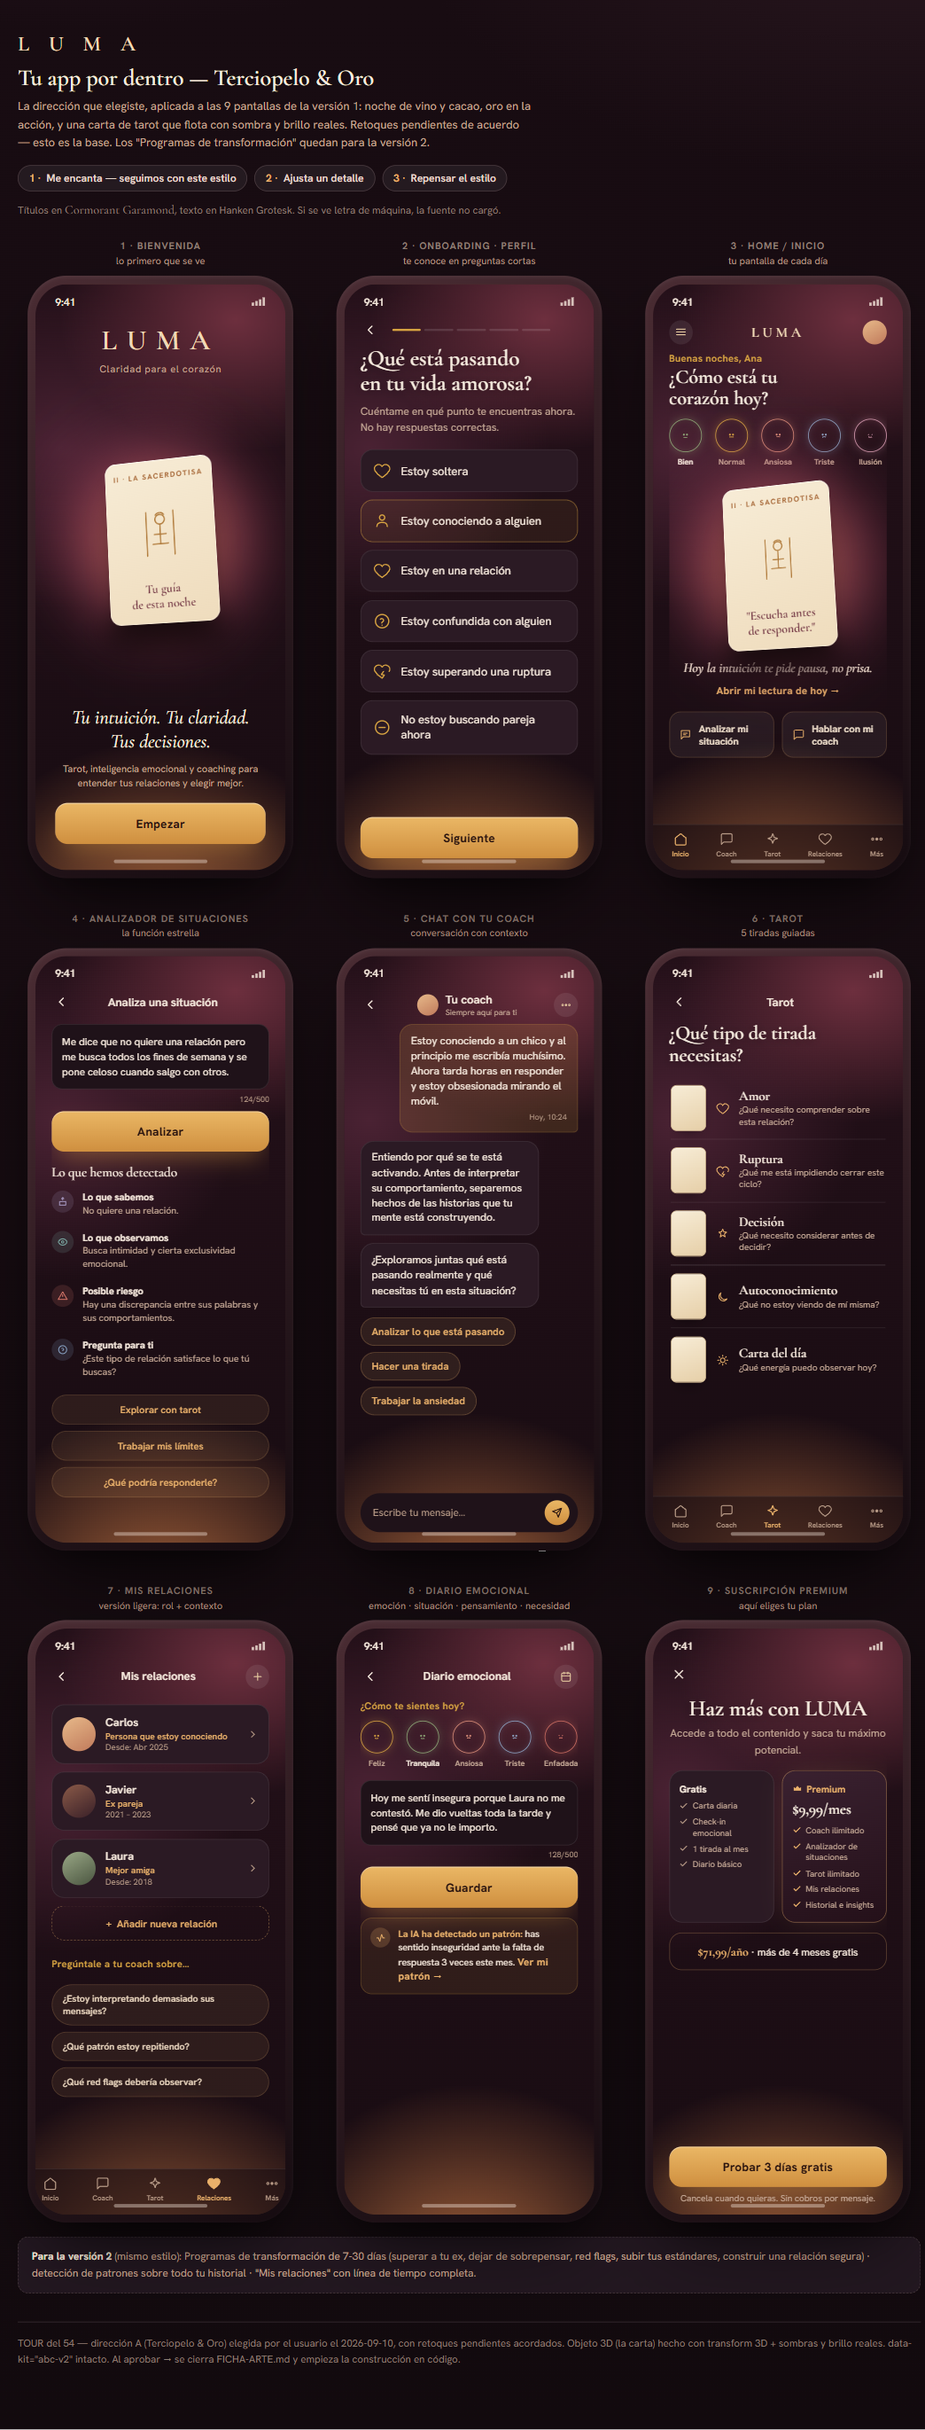
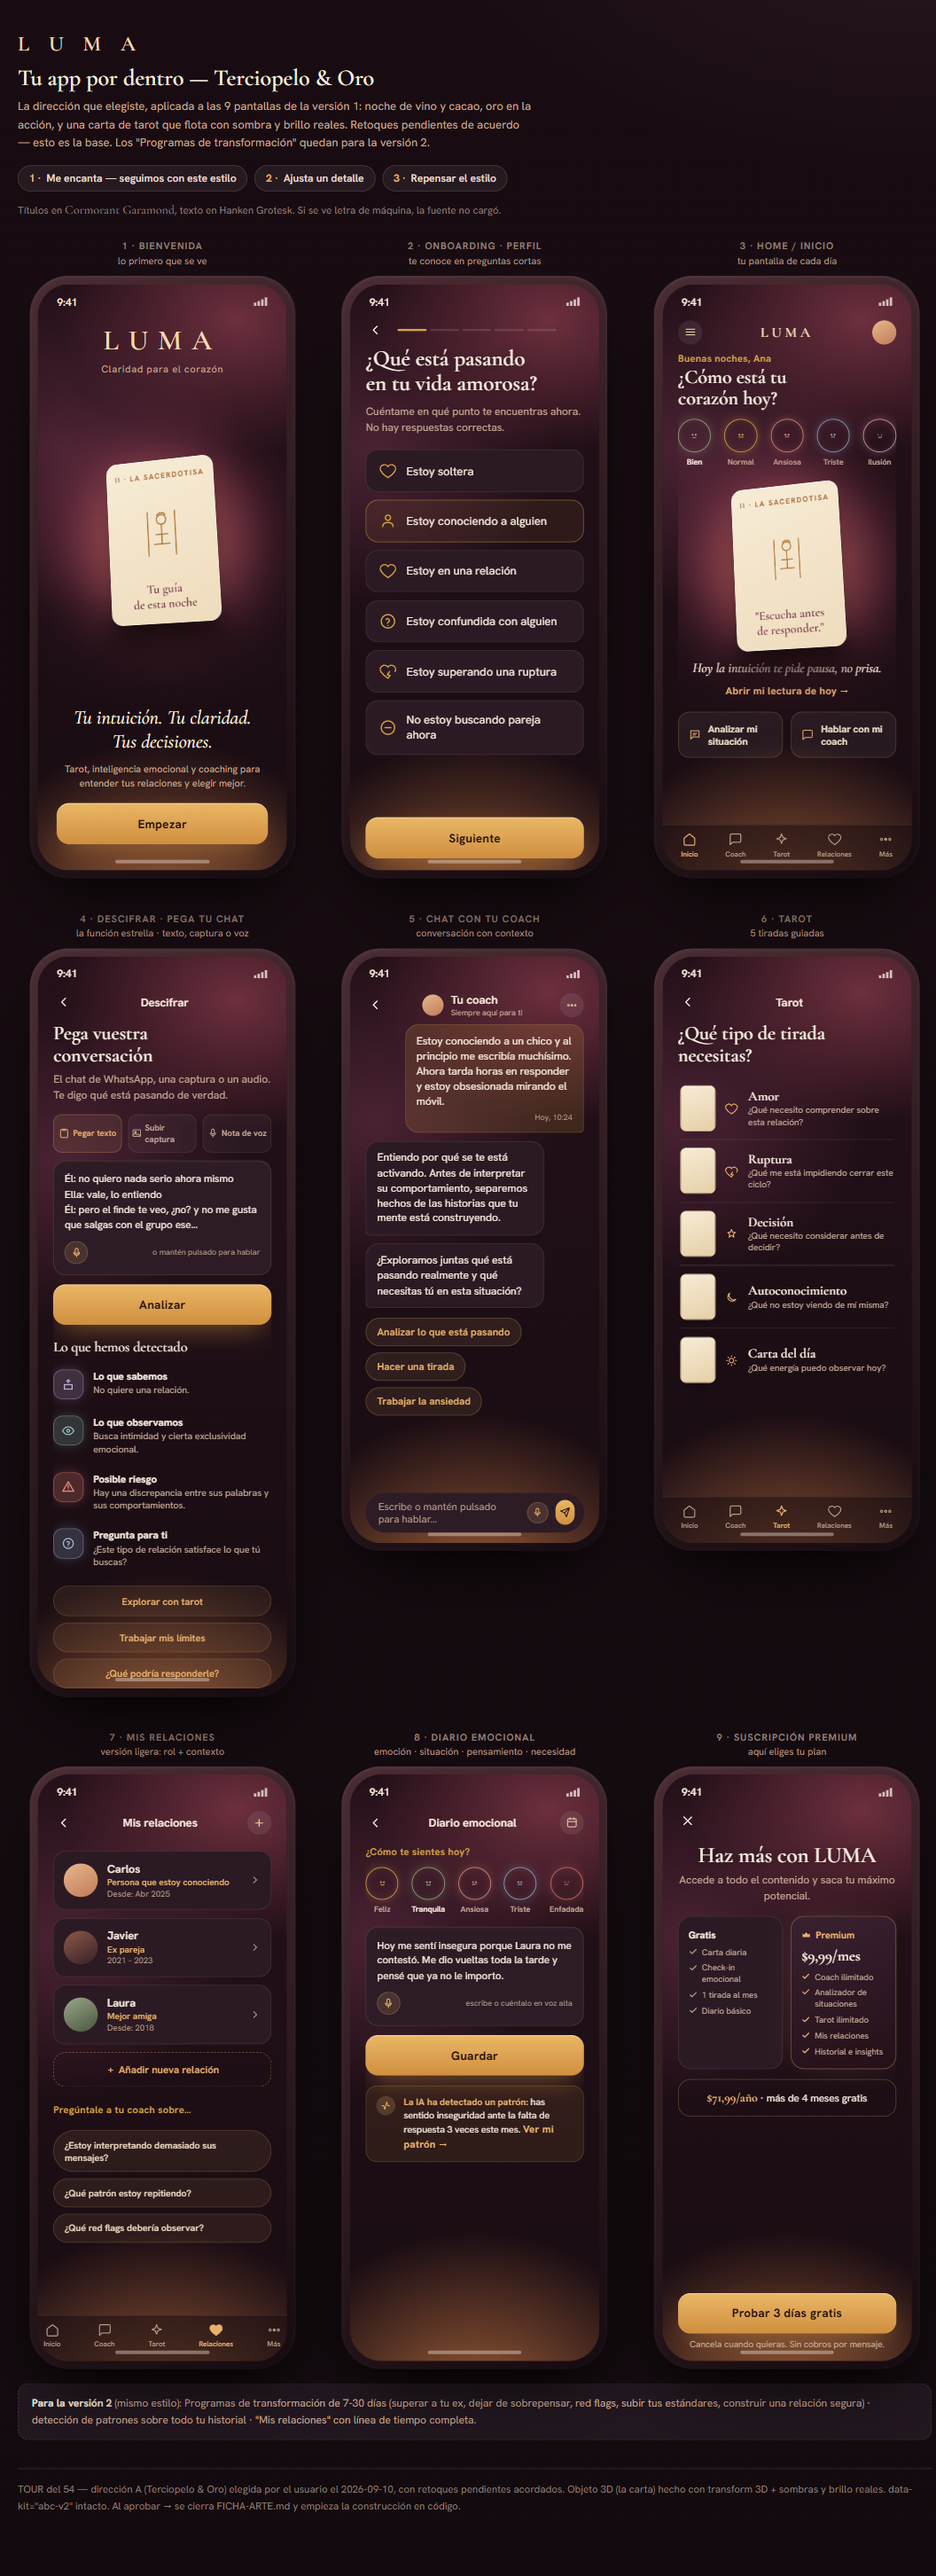
feat(sesion-2): retoques del tour — Descifrar, notas de voz, iconos y cajas de texto
Pedidos del usuario sobre la direccion A:
- pantalla 4 renombrada: 'Analizador de situaciones' -> 'Descifrar' / 'Pega vuestra
  conversacion'; 3 modos de entrada (pegar texto de WhatsApp / subir captura / nota de voz)
- NOTAS DE VOZ: boton de microfono en toda caja de texto (Descifrar, coach, diario).
  Decision de producto documentada en ESTADO.md (voz->texto en servidor, coste ~0.006/min).
- iconos de 'Lo que hemos detectado' mas grandes (34px) con relleno de color + glow por tipo
- cajas de texto con fondo calido translucido (#2d1c26) en vez de casi-negro que resaltaba de mas

diff --git a/vista-previa-app.html b/vista-previa-app.html
@@ -19,7 +19,7 @@
     --fb:"Hanken Grotesk", system-ui, sans-serif;
     --gold:#d8a441; --gold-lite:#e9b06a; --rose:#d98a86;
     --t1:#f4e7db; --t2:#c6a996; --t3:#b79a86;
-    --surf:#2b1a24; --surf-2:#33202b; --sunk:#1f1219; --hair:rgb(255 255 255/.09);
+    --surf:#2b1a24; --surf-2:#33202b; --sunk:#2d1c26; --hair:rgb(255 255 255/.09);
   }
   body{
     background:
@@ -148,12 +148,21 @@
   .askchips span{padding:9px 12px;border-radius:999px;background:rgb(233 176 106/.09);color:#e7d3bc;font-size:10.5px;font-weight:600;border:1px solid rgb(233 176 106/.2)}
 
   /* analizador */
-  .field{background:var(--sunk);border:1px solid var(--hair);border-radius:12px;padding:11px;font-size:11.5px;color:var(--t1);line-height:1.45}
-  .cnt{text-align:right;font-size:9px;color:var(--t3);margin-top:5px}
-  .det{display:flex;gap:10px;align-items:flex-start;padding:8px 0}
-  .det .dot{width:25px;height:25px;border-radius:999px;flex-shrink:0;display:flex;align-items:center;justify-content:center}
-  .det h5{font-size:11px;font-weight:700;color:var(--t1)}
-  .det p{font-size:10.5px;color:var(--t2);line-height:1.4;margin-top:1px}
+  .inmodes{display:flex;gap:7px;margin-top:12px}
+  .im{flex:1;display:flex;align-items:center;justify-content:center;gap:4px;padding:8px 3px;border-radius:10px;
+    font-size:9.5px;font-weight:600;color:var(--t2);background:rgb(255 255 255/.04);border:1px solid var(--hair)}
+  .im svg{width:12px;height:12px}
+  .im.on{color:var(--gold-lite);background:rgb(233 176 106/.1);border-color:rgb(233 176 106/.32)}
+  .field{background:#2d1c26;border:1px solid rgb(233 176 106/.16);border-radius:14px;padding:12px;
+    font-size:11.5px;color:var(--t1);line-height:1.5;box-shadow:inset 0 1px 0 rgb(255 255 255/.05)}
+  .field .ff{display:flex;align-items:center;justify-content:space-between;margin-top:9px}
+  .mic{width:26px;height:26px;border-radius:999px;flex-shrink:0;display:flex;align-items:center;justify-content:center;
+    background:rgb(233 176 106/.15);color:var(--gold-lite);border:1px solid rgb(233 176 106/.28)}
+  .cnt{font-size:9px;color:var(--t3)}
+  .det{display:flex;gap:11px;align-items:flex-start;padding:9px 0}
+  .det .dot{width:34px;height:34px;border-radius:11px;flex-shrink:0;display:flex;align-items:center;justify-content:center}
+  .det h5{font-size:11.5px;font-weight:700;color:var(--t1)}
+  .det p{font-size:10.5px;color:var(--t2);line-height:1.4;margin-top:2px}
   .acts{display:flex;flex-direction:column;gap:7px}
   .acts span{padding:9px 12px;border-radius:999px;background:rgb(233 176 106/.09);color:var(--gold-lite);font-size:11px;font-weight:600;text-align:center;border:1px solid rgb(233 176 106/.2)}
 
@@ -307,20 +316,28 @@
 
   <!-- 4 · ANALIZADOR -->
   <div class="fw">
-    <div class="rot">4 · Analizador de situaciones<small>la función estrella</small></div>
+    <div class="rot">4 · Descifrar · pega tu chat<small>la función estrella · texto, captura o voz</small></div>
     <div class="ph"><div class="scr">
       <div class="sb"><span>9:41</span><span class="r"><svg width="16" height="10" viewBox="0 0 17 11" fill="currentColor"><rect x="0" y="7" width="3" height="4" rx=".8"/><rect x="4.5" y="5" width="3" height="6" rx=".8"/><rect x="9" y="3" width="3" height="8" rx=".8"/><rect x="13.5" y=".5" width="3" height="10.5" rx=".8"/></svg></span></div>
       <div class="pn">
-        <div class="bar"><span class="bk"><svg width="17" height="17" viewBox="0 0 24 24" fill="none" stroke="currentColor" stroke-width="2" stroke-linecap="round" stroke-linejoin="round"><path d="M15 18l-6-6 6-6"/></svg></span><span class="ttl">Analiza una situación</span><span style="width:17px"></span></div>
-        <div class="sc" style="margin-top:6px">
-          <div class="field">Me dice que no quiere una relación pero me busca todos los fines de semana y se pone celoso cuando salgo con otros.</div>
-          <p class="cnt">124/500</p>
-          <div class="btn" style="margin-top:8px">Analizar</div>
-          <p style="font-family:var(--fd);font-size:15px;color:#f4e7db;margin:14px 0 4px">Lo que hemos detectado</p>
-          <div class="det"><span class="dot" style="background:rgb(169 155 196/.16)"><svg width="12" height="12" viewBox="0 0 24 24" fill="none" stroke="#a99bc4" stroke-width="2" stroke-linecap="round"><path d="M12 3v6M12 3 9 6M12 3l3 3M5 12h14v8H5z"/></svg></span><div><h5>Lo que sabemos</h5><p>No quiere una relación.</p></div></div>
-          <div class="det"><span class="dot" style="background:rgb(127 176 170/.16)"><svg width="12" height="12" viewBox="0 0 24 24" fill="none" stroke="#7fb0aa" stroke-width="2" stroke-linecap="round" stroke-linejoin="round"><path d="M2 12s3.5-7 10-7 10 7 10 7-3.5 7-10 7-10-7-10-7Z"/><circle cx="12" cy="12" r="2.5"/></svg></span><div><h5>Lo que observamos</h5><p>Busca intimidad y cierta exclusividad emocional.</p></div></div>
-          <div class="det"><span class="dot" style="background:rgb(217 119 106/.16)"><svg width="12" height="12" viewBox="0 0 24 24" fill="none" stroke="#d9776a" stroke-width="2" stroke-linecap="round" stroke-linejoin="round"><path d="M12 3 2 20h20L12 3ZM12 9v5M12 17h.01"/></svg></span><div><h5>Posible riesgo</h5><p>Hay una discrepancia entre sus palabras y sus comportamientos.</p></div></div>
-          <div class="det"><span class="dot" style="background:rgb(138 164 198/.16)"><svg width="12" height="12" viewBox="0 0 24 24" fill="none" stroke="#8aa4c6" stroke-width="2" stroke-linecap="round"><circle cx="12" cy="12" r="9"/><path d="M9.5 9.5a2.5 2.5 0 0 1 4.5 1.5c0 2-2.5 2-2.5 3.5M12 17.5h.01"/></svg></span><div><h5>Pregunta para ti</h5><p>¿Este tipo de relación satisface lo que tú buscas?</p></div></div>
+        <div class="bar"><span class="bk"><svg width="17" height="17" viewBox="0 0 24 24" fill="none" stroke="currentColor" stroke-width="2" stroke-linecap="round" stroke-linejoin="round"><path d="M15 18l-6-6 6-6"/></svg></span><span class="ttl">Descifrar</span><span style="width:17px"></span></div>
+        <div class="sc">
+          <h2 class="t sm" style="margin-top:4px">Pega vuestra<br>conversación</h2>
+          <p class="bd" style="margin-top:6px">El chat de WhatsApp, una captura o un audio. Te digo qué está pasando de verdad.</p>
+          <div class="inmodes">
+            <span class="im on"><svg viewBox="0 0 24 24" fill="none" stroke="currentColor" stroke-width="2" stroke-linecap="round" stroke-linejoin="round"><path d="M8 4H6a2 2 0 0 0-2 2v14a2 2 0 0 0 2 2h12a2 2 0 0 0 2-2V6a2 2 0 0 0-2-2h-2M9 3h6v3H9z"/></svg>Pegar texto</span>
+            <span class="im"><svg viewBox="0 0 24 24" fill="none" stroke="currentColor" stroke-width="2" stroke-linecap="round" stroke-linejoin="round"><rect x="3" y="4" width="18" height="16" rx="2"/><circle cx="9" cy="10" r="2"/><path d="m3 17 5-4 4 3 3-2 6 5"/></svg>Subir captura</span>
+            <span class="im"><svg viewBox="0 0 24 24" fill="none" stroke="currentColor" stroke-width="2" stroke-linecap="round" stroke-linejoin="round"><rect x="9" y="3" width="6" height="11" rx="3"/><path d="M6 11a6 6 0 0 0 12 0M12 17v4"/></svg>Nota de voz</span>
+          </div>
+          <div class="field" style="margin-top:9px">Él: no quiero nada serio ahora mismo<br>Ella: vale, lo entiendo<br>Él: pero el finde te veo, ¿no? y no me gusta que salgas con el grupo ese…
+            <div class="ff"><span class="mic"><svg width="13" height="13" viewBox="0 0 24 24" fill="none" stroke="currentColor" stroke-width="2" stroke-linecap="round" stroke-linejoin="round"><rect x="9" y="3" width="6" height="11" rx="3"/><path d="M6 11a6 6 0 0 0 12 0M12 17v4"/></svg></span><span class="cnt">o mantén pulsado para hablar</span></div>
+          </div>
+          <div class="btn" style="margin-top:10px">Analizar</div>
+          <p style="font-family:var(--fd);font-size:16px;color:#f4e7db;margin:16px 0 6px">Lo que hemos detectado</p>
+          <div class="det"><span class="dot" style="background:rgb(169 155 196/.24);border:1px solid rgb(169 155 196/.5);box-shadow:0 0 16px -4px rgb(169 155 196/.55)"><svg width="15" height="15" viewBox="0 0 24 24" fill="none" stroke="#bbb0d6" stroke-width="2" stroke-linecap="round"><path d="M12 3v6M12 3 9 6M12 3l3 3M5 12h14v8H5z"/></svg></span><div><h5>Lo que sabemos</h5><p>No quiere una relación.</p></div></div>
+          <div class="det"><span class="dot" style="background:rgb(127 176 170/.24);border:1px solid rgb(127 176 170/.5);box-shadow:0 0 16px -4px rgb(127 176 170/.55)"><svg width="15" height="15" viewBox="0 0 24 24" fill="none" stroke="#96c2bc" stroke-width="2" stroke-linecap="round" stroke-linejoin="round"><path d="M2 12s3.5-7 10-7 10 7 10 7-3.5 7-10 7-10-7-10-7Z"/><circle cx="12" cy="12" r="2.5"/></svg></span><div><h5>Lo que observamos</h5><p>Busca intimidad y cierta exclusividad emocional.</p></div></div>
+          <div class="det"><span class="dot" style="background:rgb(217 119 106/.26);border:1px solid rgb(217 119 106/.55);box-shadow:0 0 16px -4px rgb(217 119 106/.6)"><svg width="15" height="15" viewBox="0 0 24 24" fill="none" stroke="#e79082" stroke-width="2" stroke-linecap="round" stroke-linejoin="round"><path d="M12 3 2 20h20L12 3ZM12 9v5M12 17h.01"/></svg></span><div><h5>Posible riesgo</h5><p>Hay una discrepancia entre sus palabras y sus comportamientos.</p></div></div>
+          <div class="det"><span class="dot" style="background:rgb(138 164 198/.24);border:1px solid rgb(138 164 198/.5);box-shadow:0 0 16px -4px rgb(138 164 198/.55)"><svg width="15" height="15" viewBox="0 0 24 24" fill="none" stroke="#a3b9d6" stroke-width="2" stroke-linecap="round"><circle cx="12" cy="12" r="9"/><path d="M9.5 9.5a2.5 2.5 0 0 1 4.5 1.5c0 2-2.5 2-2.5 3.5M12 17.5h.01"/></svg></span><div><h5>Pregunta para ti</h5><p>¿Este tipo de relación satisface lo que tú buscas?</p></div></div>
           <div class="acts" style="margin-top:10px">
             <span>Explorar con tarot</span>
             <span>Trabajar mis límites</span>
@@ -353,7 +370,7 @@
             <span class="qr">Trabajar la ansiedad</span>
           </div>
         </div>
-        <div class="comp" style="margin-bottom:12px">Escribe tu mensaje…<span class="snd"><svg width="12" height="12" viewBox="0 0 24 24" fill="none" stroke="currentColor" stroke-width="2.2" stroke-linecap="round" stroke-linejoin="round"><path d="M22 2 11 13M22 2l-7 20-4-9-9-4Z"/></svg></span></div>
+        <div class="comp" style="margin-bottom:12px">Escribe o mantén pulsado para hablar…<span class="mic" style="width:24px;height:24px"><svg width="12" height="12" viewBox="0 0 24 24" fill="none" stroke="currentColor" stroke-width="2" stroke-linecap="round" stroke-linejoin="round"><rect x="9" y="3" width="6" height="11" rx="3"/><path d="M6 11a6 6 0 0 0 12 0M12 17v4"/></svg></span><span class="snd"><svg width="12" height="12" viewBox="0 0 24 24" fill="none" stroke="currentColor" stroke-width="2.2" stroke-linecap="round" stroke-linejoin="round"><path d="M22 2 11 13M22 2l-7 20-4-9-9-4Z"/></svg></span></div>
       </div>
       <div class="hi"></div>
     </div></div>
@@ -437,9 +454,10 @@
             <div class="mc" style="--rc:#8fa6c6"><span class="rg"><svg width="14" height="14" viewBox="0 0 24 24" fill="none" stroke="#8fa6c6" stroke-width="1.6" stroke-linecap="round"><circle cx="9" cy="10" r="1"/><circle cx="15" cy="10" r="1"/><path d="M8.5 15.5c1.2-1.8 5.8-1.8 7 0"/></svg></span>Triste</div>
             <div class="mc" style="--rc:#cf6f63"><span class="rg"><svg width="14" height="14" viewBox="0 0 24 24" fill="none" stroke="#cf6f63" stroke-width="1.6" stroke-linecap="round"><path d="M8 9l1.5 1M16 9l-1.5 1M8.5 15c1.2-1 5.8-1 7 0"/></svg></span>Enfadada</div>
           </div>
-          <div class="field" style="margin-top:14px">Hoy me sentí insegura porque Laura no me contestó. Me dio vueltas toda la tarde y pensé que ya no le importo.</div>
-          <p class="cnt">128/500</p>
-          <div class="btn" style="margin-top:8px">Guardar</div>
+          <div class="field" style="margin-top:14px">Hoy me sentí insegura porque Laura no me contestó. Me dio vueltas toda la tarde y pensé que ya no le importo.
+            <div class="ff"><span class="mic"><svg width="13" height="13" viewBox="0 0 24 24" fill="none" stroke="currentColor" stroke-width="2" stroke-linecap="round" stroke-linejoin="round"><rect x="9" y="3" width="6" height="11" rx="3"/><path d="M6 11a6 6 0 0 0 12 0M12 17v4"/></svg></span><span class="cnt">escribe o cuéntalo en voz alta</span></div>
+          </div>
+          <div class="btn" style="margin-top:10px">Guardar</div>
           <div class="patt" style="margin-top:11px">
             <span style="width:22px;height:22px;border-radius:999px;background:rgb(233 176 106/.2);display:flex;align-items:center;justify-content:center;flex-shrink:0"><svg width="12" height="12" viewBox="0 0 24 24" fill="none" stroke="var(--gold-lite)" stroke-width="2" stroke-linecap="round" stroke-linejoin="round"><path d="M3 12h4l3 8 4-16 3 8h4"/></svg></span>
             <p><b>La IA ha detectado un patrón:</b> has sentido inseguridad ante la falta de respuesta 3 veces este mes. <span class="lnk">Ver mi patrón →</span></p>

diff --git a/ESTADO.md b/ESTADO.md
@@ -1,7 +1,7 @@
 # ESTADO — LUMA (nombre de trabajo)
 Última actualización: 2026-09-09 | Sesión actual: 1 (cerrando)
 
-⏸ CHECKPOINT — Última acción completada: Sesión 2 — el usuario eligió la dirección A (Terciopelo & Oro), con retoques posteriores acordados. Hecho el TOUR (`vista-previa-app.html`, 9 pantallas V1 con la dirección A). FICHA-ARTE.md con el brand kit A / Siguiente acción exacta: el usuario aprueba el tour (1=me encanta / 2=ajusta / 3=repensar) → cerrar FICHA-ARTE.md → Sesión 3 (página de ventas — requiere FICHA-AVATAR con ≥10 VoC)
+⏸ CHECKPOINT — Última acción completada: Sesión 2 — dirección A elegida; ronda de retoques del tour: pantalla 4 renombrada a "Descifrar / Pega vuestra conversación", añadidas NOTAS DE VOZ (mic en toda caja de texto), iconos del análisis más grandes y con glow, cajas de texto con fondo cálido (ya no negro duro) / Siguiente acción exacta: el usuario aprueba el tour retocado (1=me encanta / 2=más ajustes / 3=repensar) → cerrar FICHA-ARTE.md → Sesión 3 (página de ventas)
 
 ## Qué es esta app (3 líneas máximo)
 Coach de bolsillo de inteligencia emocional para el amor y las relaciones: combina IA, tarot y
@@ -60,8 +60,9 @@ sabemos / qué observamos / posible riesgo / pregunta para ti / qué podrías re
   `relationships` (Mis relaciones: rol + notas de la usuaria) · `journal_entries` ·
   `subscriptions` (plan/estado desde webhook Hotmart, idempotente + firma) · `ai_calls` (coste/kill-switch, 30/31).
 - IA (30): coach = texto→texto sync con contexto (perfil + relaciones + últimos mensajes);
-  analizador = texto→texto sync con salida estructurada (hechos/observaciones/riesgo/pregunta/qué responder);
-  tiradas = texto→texto sync; OCR de capturas = modelo multimodal o OCR+texto (proveedor se decide en Sesión 6).
+  DESCIFRAR = texto→texto sync con salida estructurada (sabemos/observamos/riesgo/pregunta/qué responder);
+  tiradas = texto→texto sync; OCR de capturas = modelo multimodal o OCR+texto; NOTAS DE VOZ = voz→texto
+  en servidor y luego el flujo de texto (proveedores de OCR y de transcripción se deciden en Sesión 6).
   `AI_MODEL` en env, `max_tokens` ~800-1024, cache de idénticos, kill-switch por coste. Prompt con guardarraíles:
   solo auto-reflexión/límites/inteligencia emocional; PROHIBIDO predecir salud, embarazo, muerte o eventos trágicos (gate 61).
 - Loop de retención (Hooked): Gatillo = notificación nocturna "tu reflexión de 1 minuto está lista" + evento personal →
@@ -72,8 +73,19 @@ sabemos / qué observamos / posible riesgo / pregunta para ti / qué podrías re
 
 ## ALCANCE V1 (aprobado por el usuario — ~8 pantallas núcleo + bienvenida + paywall)
 1. Bienvenida · 2. Recorrido de inicio (quiz) · 3. Inicio (check-in + carta del día) ·
-4. **Analizar mi situación** (función estrella) · 5. Coach IA · 6. Tarot (tiradas contextuales 1-3 cartas) ·
+4. **DESCIFRAR / "Pega vuestra conversación"** (función estrella — antes "Analizador de situaciones";
+   renombrada 2026-09-10 para vender la fuerza real: pegar el chat de WhatsApp. Entradas: pegar
+   texto · subir captura · NOTA DE VOZ) · 5. Coach IA · 6. Tarot (tiradas contextuales 1-3 cartas) ·
 7. Mis relaciones (ligera: rol + contexto que alimenta al coach) · 8. Diario emocional · + Pantalla de planes.
+
+### NOTAS DE VOZ (decisión de producto 2026-09-10 — a pedido del usuario)
+- Toda caja de texto de la app (Descifrar, chat del coach, diario) lleva un botón de micrófono:
+  la usuaria mantiene pulsado y habla en vez de escribir.
+- El audio se transcribe EN EL SERVIDOR (modelo voz→texto; proveedor se decide en Sesión 6) y a
+  partir de ahí sigue el MISMO flujo que el texto. Nunca se manda la clave de voz al navegador.
+- Coste: transcripción ≈ US$0,006/min → despreciable frente a la respuesta. Entra en el
+  circuit-breaker de coste (30/31). Límite blando: audios ≤ 2-3 min.
+- Coherente con "la buena IA borra trabajo, no agrega pasos" (regla UX 19c).
 - A V2: Programas de 7-30 días · detección de patrones sobre todo el historial · Mis relaciones con timeline profundo · memoria de largo plazo del coach.
 
 ## Riesgos

diff --git a/FICHA-ARTE.md b/FICHA-ARTE.md
@@ -109,7 +109,13 @@
 - Protocolo A/B/C: `direcciones-abc.html` · screenshot docs/revisiones/direcciones-abc-375.png ·
   opción elegida: **A · Terciopelo & Oro** · descartadas: B (claro clay), C (atardecer degradado glass)
 - Réplicas fieles previas (archivadas, ya no vigentes): `replica-fiel.html`, primera `vista-previa-app.html` — rechazadas por el usuario.
-- Tour de la app: `vista-previa-app.html` (se reconstruye con la dirección A) · aprobado por el usuario: PENDIENTE
+- Tour de la app: `vista-previa-app.html` con la dirección A · aprobado por el usuario: PENDIENTE
+- Ronda de retoques 2026-09-10 (pedidos del usuario, aplicados sobre la base A):
+  · pantalla "Analizador" renombrada → "Descifrar" con encabezado "Pega vuestra conversación" + 3 modos
+    de entrada (pegar texto / subir captura / nota de voz)
+  · iconos de "Lo que hemos detectado" a 34px, con relleno de color más fuerte + glow por tipo
+  · cajas de texto: fondo #2d1c26 cálido translúcido + hairline oro tenue (antes #1f1219 casi-negro, resaltaba de más)
+  · botón de micrófono (voz→texto) en Descifrar, chat del coach y diario — ver ESTADO "NOTAS DE VOZ"
 - Paleta derivada de: propuesta propia (dirección A), fusionando calidez editorial (CHANI) + profundidad de degradado (The Pattern) + capa 3D cálida
 - Registro anti-repetición: paleta (vino/cacao #241019 + oro #d8a441) y par tipográfico (Cormorant Garamond + Hanken Grotesk) VETADOS para el próximo proyecto del SO
 - Modo (oscuro cálido) DERIVADO por: el brief del usuario (noche íntima, esotérico, romántico) + fusión de referencias — NO asumido por reflejo
